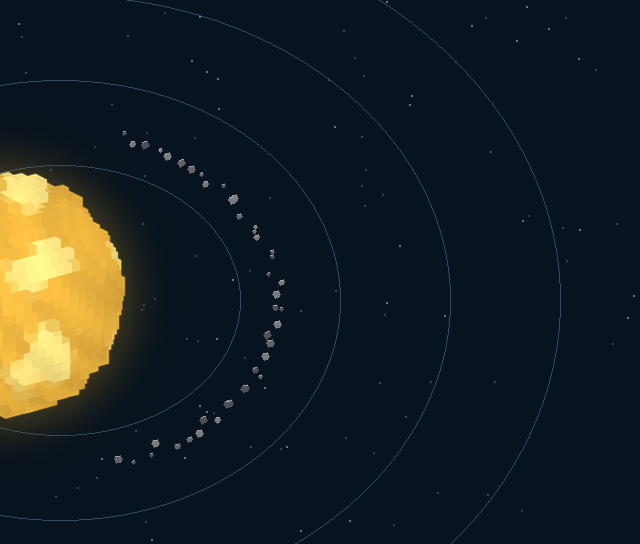
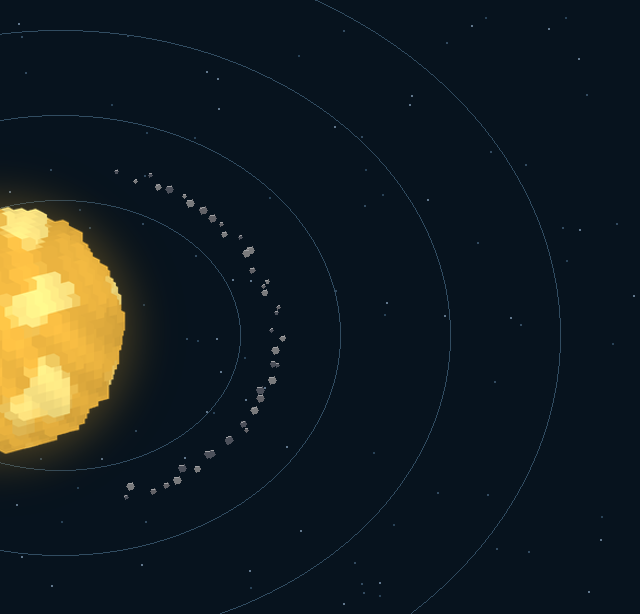
Remove separate 3D navigation and repair blueprint preview

diff --git a/src/main/java/dev/astralreach/hytale/OrbitalMapPage.java b/src/main/java/dev/astralreach/hytale/OrbitalMapPage.java
@@ -19,7 +19,7 @@ import com.hypixel.hytale.server.core.universe.PlayerRef;
 import com.hypixel.hytale.server.core.universe.world.storage.EntityStore;
 import java.util.*;
 
-/** Native destination controls with an optional free-cursor 3D scene. */
+/** Native top-down destination controls. The separate 3D option is retired. */
 final class OrbitalMapPage extends InteractiveCustomUIPage<OrbitalMapPage.Action>{
  static final class Action{String action="";static final BuilderCodec<Action> CODEC=BuilderCodec.builder(Action.class,Action::new).append(new KeyedCodec<>("Action",Codec.STRING),(a,v)->a.action=v,a->a.action).add().build();}
  private record Body(String subtitle,String resource0,String label0,String resource1,String label1,String equipment,String detail){}
@@ -47,10 +47,6 @@ final class OrbitalMapPage extends InteractiveCustomUIPage<OrbitalMapPage.Action
   var r=session.player.getReference();if(r==null||!r.isValid()||r.getStore()!=session.store||!SpaceFlight.inOrbit(session.store,r))return;
   session.threeD=false;session.selected=body;var player=session.store.getComponent(r,Player.getComponentType());player.getHudManager().removeCustomHud(session.player,HUD);
   if(session.scene!=null){session.scene.close();session.scene=null;}player.getPageManager().openCustomPage(r,session.store,new OrbitalMapPage(session,body));
- }
- private static void showScene(Session session){
-  var r=session.player.getReference();if(r==null||!r.isValid()||r.getStore()!=session.store)return;session.threeD=true;session.dragging=false;if(session.scene==null)session.scene=new OrbitalScene(session.store,session.player);session.scene.select(session.selected);
-  session.store.getComponent(r,Player.getComponentType()).getHudManager().addCustomHud(session.player,new CustomUIHud(session.player,HUD,7){@Override protected void build(UICommandBuilder c){c.append("Pages/AstralReach/OrbitalMapHud.ui");}});session.scene.view();
  }
  static void route(Store<EntityStore>s,Ref<EntityStore>r,PlayerRef p,String name){String body=ORDER.stream().filter(v->v.equalsIgnoreCase(name)).findFirst().orElse(null);if(body==null){AstralReachPlugin.message(p,"Choose Orbis, Lune, Rustreach, Nacre, Vesper or Umbra.");return;}if(!SpaceFlight.inOrbit(s,r)){AstralReachPlugin.message(p,"Navigation becomes available after reaching space.");return;}var session=viewing.get(p.getUuid());if(session==null){session=new Session(s,p);viewing.put(p.getUuid(),session);}showDestinations(session,body);}
  private static void stop(Session session){if(!viewing.remove(session.player.getUuid(),session))return;var world=session.store.getExternalData().getWorld();var scene=session.scene;session.scene=null;if(scene!=null){if(world.isInThread())scene.close();else world.execute(scene::close);}var r=session.player.getReference();if(r!=null&&r.isValid()){var current=r.getStore();Runnable remove=()->{if(!r.isValid()||r.getStore()!=current)return;var player=current.getComponent(r,Player.getComponentType());if(player!=null){player.getHudManager().removeCustomHud(session.player,HUD);var bar=current.getComponent(r,InventoryComponent.Hotbar.getComponentType());if(bar!=null&&session.originalSlot>=0&&session.originalSlot<bar.getInventory().getCapacity()&&bar.getActiveSlot()!=session.originalSlot){bar.setActiveSlot(session.originalSlot,r,current);session.player.getPacketHandler().writeNoCache(new com.hypixel.hytale.protocol.packets.inventory.SetActiveSlot(bar.getSectionId(),session.originalSlot));}}};if(current.getExternalData().getWorld().isInThread())remove.run();else current.getExternalData().getWorld().execute(remove);}}
@@ -93,13 +89,12 @@ final class OrbitalMapPage extends InteractiveCustomUIPage<OrbitalMapPage.Action
  @Override public void build(Ref<EntityStore>r,UICommandBuilder c,UIEventBuilder e,Store<EntityStore>s){
   c.append("Pages/AstralReach/OrbitalMap.ui");labels(r,c,s);NativeUi.cue(s,playerRef);
   for(String body:ORDER)for(String prefix:List.of("Route","Planet"))e.addEventBinding(CustomUIEventBindingType.Activating,"#"+prefix+body,EventData.of("Action","Select:"+body),false);
-  for(String id:List.of("Explore","Travel","Close"))e.addEventBinding(CustomUIEventBindingType.Activating,"#"+id,EventData.of("Action",id),false);
+  for(String id:List.of("Travel","Close"))e.addEventBinding(CustomUIEventBindingType.Activating,"#"+id,EventData.of("Action",id),false);
  }
  @Override public void handleDataEvent(Ref<EntityStore>r,Store<EntityStore>s,Action action){s.getExternalData().getWorld().execute(()->{
   if(!r.isValid()||r.getStore()!=s||viewing.get(playerRef.getUuid())!=session||!SpaceFlight.inOrbit(s,r))return;var player=s.getComponent(r,Player.getComponentType());if(player==null||player.getPageManager().getCustomPage()!=this)return;
   String a=action.action;if(a.equals("Close")){stop(session);close();return;}
   if(a.startsWith("Select:")){String body=a.substring(7);if(!BODIES.containsKey(body)||body.equals(selected))return;selected=body;session.selected=body;if(session.scene!=null)session.scene.select(body);NativeUi.cue(s,playerRef);var c=new UICommandBuilder();labels(r,c,s);sendUpdate(c,false);return;}
-  if(a.equals("Explore")){NativeUi.cue(s,playerRef);sceneHandoff=true;close();showScene(session);return;}
   if(!a.equals("Travel")||!selected.equals("Lune")&&!selected.equals("Orbis"))return;
   try{if(selected.equals("Lune"))ExpeditionSuit.require(s,r,1);}catch(IllegalArgumentException ex){AstralReachPlugin.message(playerRef,ex.getMessage());return;}
   NativeUi.cue(s,playerRef);stop(session);close();if(selected.equals("Lune"))RocketService.chooseLune(s,r,playerRef);else RocketService.returnHome(s,r,playerRef);

diff --git a/tools/native_ui_layouts.py b/tools/native_ui_layouts.py
@@ -25,14 +25,14 @@ for n in planets:
  Label {{ Anchor: (Left: 88, Top: 48, Right: 8, Height: 26); Text: "{'Home' if n=='Orbis' else 'Available' if n=='Lune' else 'Future route'}"; Style: (FontSize: 17, TextColor: {'#78ccc8' if n=='Lune' else '#99adc1'}); }} }} Group {{ Anchor: (Height: 9); }}''')
 nav+=['} } Group { Anchor: (Width: 14); }',
 '$A.@Section { Anchor: (Width: 660); $A.@SectionHeader { Anchor: (Left: 6, Right: 6, Top: 6, Height: 42); Label { Text: "SYSTEM CHART"; Style: $A.@Heading; } }',
-'Group { Anchor: (Left: 10, Right: 10, Top: 54, Bottom: 82); Background: "Art/SystemChart.png";']
-coords={'Orbis':(200,220,126),'Lune':(350,260,62),'Rustreach':(385,115,86),'Nacre':(360,365,90),'Vesper':(200,410,94),'Umbra':(490,425,84)}
+'Group { Anchor: (Left: 10, Right: 10, Top: 54, Bottom: 12); Background: "Art/SystemChart.png";']
+coords={'Orbis':(200,255,126),'Lune':(350,295,62),'Rustreach':(385,150,86),'Nacre':(360,400,90),'Vesper':(200,445,94),'Umbra':(490,460,84)}
 for n,(x,y,size) in coords.items():
  nav.append(f'''Button #Planet{n} {{ Anchor: (Left: {x}, Top: {y}, Width: {size+18}, Height: {size+32}); Style: $A.@PlanetStyle;
  Group #Ring{n} {{ Anchor: (Left: 0, Top: 0, Width: {size+6}, Height: {size+6}); Background: "Art/SelectionRing.png"; HitTestVisible: false; }}
  Group {{ Anchor: (Left: 3, Top: 3, Width: {size}, Height: {size}); Background: "Art/Planet_{n}.png"; HitTestVisible: false; }}
  Label {{ Anchor: (Left: 2, Top: {size+7}, Width: {size+30}, Height: 25); Text: "{n}"; Style: (FontSize: 19, TextColor: #d5dfe6); }} }}''')
-nav+=['}', '$C.@SecondaryTextButton #Explore { Anchor: (Width: 260, Height: 46, Bottom: 18); Text: "Explore in 3D"; } }', 'Group { Anchor: (Width: 14); }',
+nav+=['} }', 'Group { Anchor: (Width: 14); }',
 'Group { Anchor: (Width: 428); LayoutMode: Top;',
 '$A.@Section { Anchor: (Height: 260); $A.@SectionHeader { Anchor: (Left: 6, Right: 6, Top: 6, Height: 42); Label #Selected { Text: "LUNE"; Style: $A.@Heading; } }']
 for n in planets:nav.append(f'Group #Preview{n} {{ Anchor: (Width: 170, Height: 170, Top: 50); Background: "Art/Planet_{n}.png"; }}')
@@ -285,8 +285,14 @@ for name in ['OrbitalMap.ui','LaunchYard.ui','Rocket.ui','Oxygen.ui','OxygenHud.
    s=s.replace(old,new)
  if name=='LaunchYard.ui':
   s=s.replace('Anchor: (Height: 170); LayoutMode: Left','Anchor: (Height: 230); LayoutMode: Left')
-  s=s.replace('$A.@Section { Anchor: (Width: 220); ItemSlot #ShipIcon { Anchor: (Width: 150, Height: 150); ShowQuantity: false; } }', '$A.@Section { Anchor: (Width: 440); Group #PreviewOdyssey { Anchor: (Full: 4); Background: "Art/Blueprint_Odyssey.png"; HitTestVisible: false; } Group #PreviewKestrel { Anchor: (Full: 4); Background: "Art/Blueprint_Kestrel.png"; HitTestVisible: false; } }')
+  old='$A.@Section { Anchor: (Width: 220); ItemSlot #ShipIcon { Anchor: (Width: 150, Height: 150); ShowQuantity: false; ShowQualityBackground: false; } }'
+  assert old in s, 'Blueprint preview source changed; update the generated page and Java selectors together'
+  s=s.replace(old, '$A.@Section { Anchor: (Width: 440); Group #PreviewOdyssey { Anchor: (Full: 4); Background: "Art/Blueprint_Odyssey.png"; HitTestVisible: false; } Group #PreviewKestrel { Anchor: (Full: 4); Background: "Art/Blueprint_Kestrel.png"; HitTestVisible: false; } }')
   s=s.replace('Label #Footprint { Anchor: (Height: 34); Style: $A.@Muted;','Label #Footprint { Anchor: (Height: 56); Style: (FontSize: 20, TextColor: #9aafc2, Wrap: true);')
   # One continuous table, with gutters separating quantities from names.
   s=s.replace('$A.@Section #Materials { Anchor: (Height: 380);','$A.@Section #Materials { Anchor: (Height: 380); Group { Anchor: (Left: 551, Width: 1, Top: 48, Bottom: 10); Background: #29465a; HitTestVisible: false; } Group { Anchor: (Left: 701, Width: 1, Top: 48, Bottom: 10); Background: #29465a; HitTestVisible: false; }')
  p.write_text(s)
+
+p=r/'Rocket.ui';s=p.read_text().replace('Label { Text: "PREPARATION";', 'Label #PreparationHeading { Text: "PREPARATION";');assert '#PreparationHeading' in s;p.write_text(s)
+assert '#PreviewOdyssey' in (r/'LaunchYard.ui').read_text()
+assert '#Explore' not in (r/'OrbitalMap.ui').read_text()

diff --git a/tools/native_ui_art.py b/tools/native_ui_art.py
@@ -90,17 +90,17 @@ for name,top,bottom in [('MeterFill.png',(96,232,225),(27,158,195)),('MeterTrack
  im=Image.new('RGBA',(256,16));d=ImageDraw.Draw(im)
  for y in range(16):d.line((0,y,255,y),fill=tuple(round(top[i]+(bottom[i]-top[i])*y/15) for i in range(3)))
  d.rectangle((0,0,255,15),outline='#4b7890',width=1);im.save(R/name)
-im=Image.new('RGB',(640,544),'#07131e');d=ImageDraw.Draw(im);rng=random.Random(84211)
+im=Image.new('RGB',(640,614),'#07131e');d=ImageDraw.Draw(im);rng=random.Random(84211)
 for _ in range(100):
- x,y=rng.randrange(640),rng.randrange(544);d.rectangle((x,y,x+1,y+1),fill=rng.choice(['#334b60','#61778c','#294257']))
-for rx,ry in [(180,135),(280,220),(390,305),(500,390)]:d.ellipse((60-rx,300-ry,60+rx,300+ry),outline='#314c61',width=1)
+ x,y=rng.randrange(640),rng.randrange(614);d.rectangle((x,y,x+1,y+1),fill=rng.choice(['#334b60','#61778c','#294257']))
+for rx,ry in [(180,135),(280,220),(390,305),(500,390)]:d.ellipse((60-rx,335-ry,60+rx,335+ry),outline='#314c61',width=1)
 # A sparse original belt of painted fragments follows the system chart's inner orbital arc.
 for i in range(42):
- t=-1.3+i*.063;x=60+217*math.cos(t)+rng.uniform(-7,7);y=300+168*math.sin(t)+rng.uniform(-6,6);size=rng.choice([2,3,4])
+ t=-1.3+i*.063;x=60+217*math.cos(t)+rng.uniform(-7,7);y=335+168*math.sin(t)+rng.uniform(-6,6);size=rng.choice([2,3,4])
  d.polygon([(x-size,y),(x-size*.6,y-size*.75),(x+size*.5,y-size),(x+size,y),(x+size*.5,y+size*.7),(x-size*.3,y+size)],fill=rng.choice(['#626267','#797a7c','#4c505a']))
  d.line((x-size*.6,y-size*.7,x+size*.4,y-size*.8),fill='#a1a1a3',width=1)
-glow=Image.new('RGBA',im.size);ImageDraw.Draw(glow).ellipse((-147,148,147,442),fill=(207,151,43,85));glow=glow.filter(ImageFilter.GaussianBlur(25));im=Image.alpha_composite(im.convert('RGBA'),glow)
-sun=Image.open(R/'Planet_Sol.png').resize((280,280));im.paste(sun,(-140,155),sun);im.convert('RGB').save(R/'SystemChart.png')
+glow=Image.new('RGBA',im.size);ImageDraw.Draw(glow).ellipse((-147,183,147,477),fill=(207,151,43,85));glow=glow.filter(ImageFilter.GaussianBlur(25));im=Image.alpha_composite(im.convert('RGBA'),glow)
+sun=Image.open(R/'Planet_Sol.png').resize((280,280));im.paste(sun,(-140,190),sun);im.convert('RGB').save(R/'SystemChart.png')
 print('Rendered original voxel relief, native nine-slice frames, glyphs and teal meter art; loaded comparison pending.')
 im=Image.new('RGB',(640,400),'#091622');d=ImageDraw.Draw(im);rng=random.Random(9440)
 for _ in range(110):

diff --git a/src/main/java/dev/astralreach/hytale/RocketPage.java b/src/main/java/dev/astralreach/hytale/RocketPage.java
@@ -36,7 +36,7 @@ final class RocketPage extends InteractiveCustomUIPage<RocketPage.Action> {
   c.set("#Route.Text",moon?"Reserved at departure for this homeward trip.":"6,000 units outbound\n3,000 units protected for return");
   c.set("#Drain.Visible",!moon&&r!=null&&!rebuild&&!busy&&units>=1000);c.set("#Fill.Visible",fill);c.set("#Rebuild.Visible",rebuild);c.set("#Launch.Visible",moon||!fill&&!rebuild);
   c.set("#Launch.Text",moon?"Board and return to Orbis":"Launch to orbit");c.set("#Launch.Disabled",moon?!returnable:!(r!=null&&!busy&&!rebuild&&units>=9000&&sealed&&oxygenReady));
-  c.set("#Preparation.Visible",!rebuild);c.set("#Suit.Text",sealed?"Ready · complete Survey suit or better":"Equip all four Survey suit pieces");c.set("#Oxygen.Text",oxygenReady?"Ready · "+NativeUi.duration(oxygen)+" oxygen reserve":"Carry at least 4:00 oxygen reserve");
+  c.set("#Preparation.Visible",!rebuild);c.set("#PreparationHeading.Text",moon?"YOUR EQUIPMENT":"PREPARATION");c.set("#Suit.Text",moon?(sealed?"Survey suit equipped":"Suit incomplete · return available"):sealed?"Ready · complete Survey suit or better":"Equip all four Survey suit pieces");c.set("#Oxygen.Text",moon?"Portable oxygen: "+NativeUi.duration(oxygen):oxygenReady?"Ready · "+NativeUi.duration(oxygen)+" oxygen reserve":"Carry at least 4:00 oxygen reserve");
   c.set("#Help.Text",rebuild?"Returned assemblies credited. Carry "+NativeUi.materials(dev.astralreach.core.RocketRecovery.missing(r.plan,r.boosterLanded))+".":moon?"Board the landed upper stage and return to your saved platform.":busy?"Finish the active mission before changing fuel.":"Board the rocket and ascend to orbit.");
   NativeUi.height(c,"#Help",rebuild?120:54);NativeUi.bounds(c,"#FlightPanel",900,rebuild?400:720);
  }
